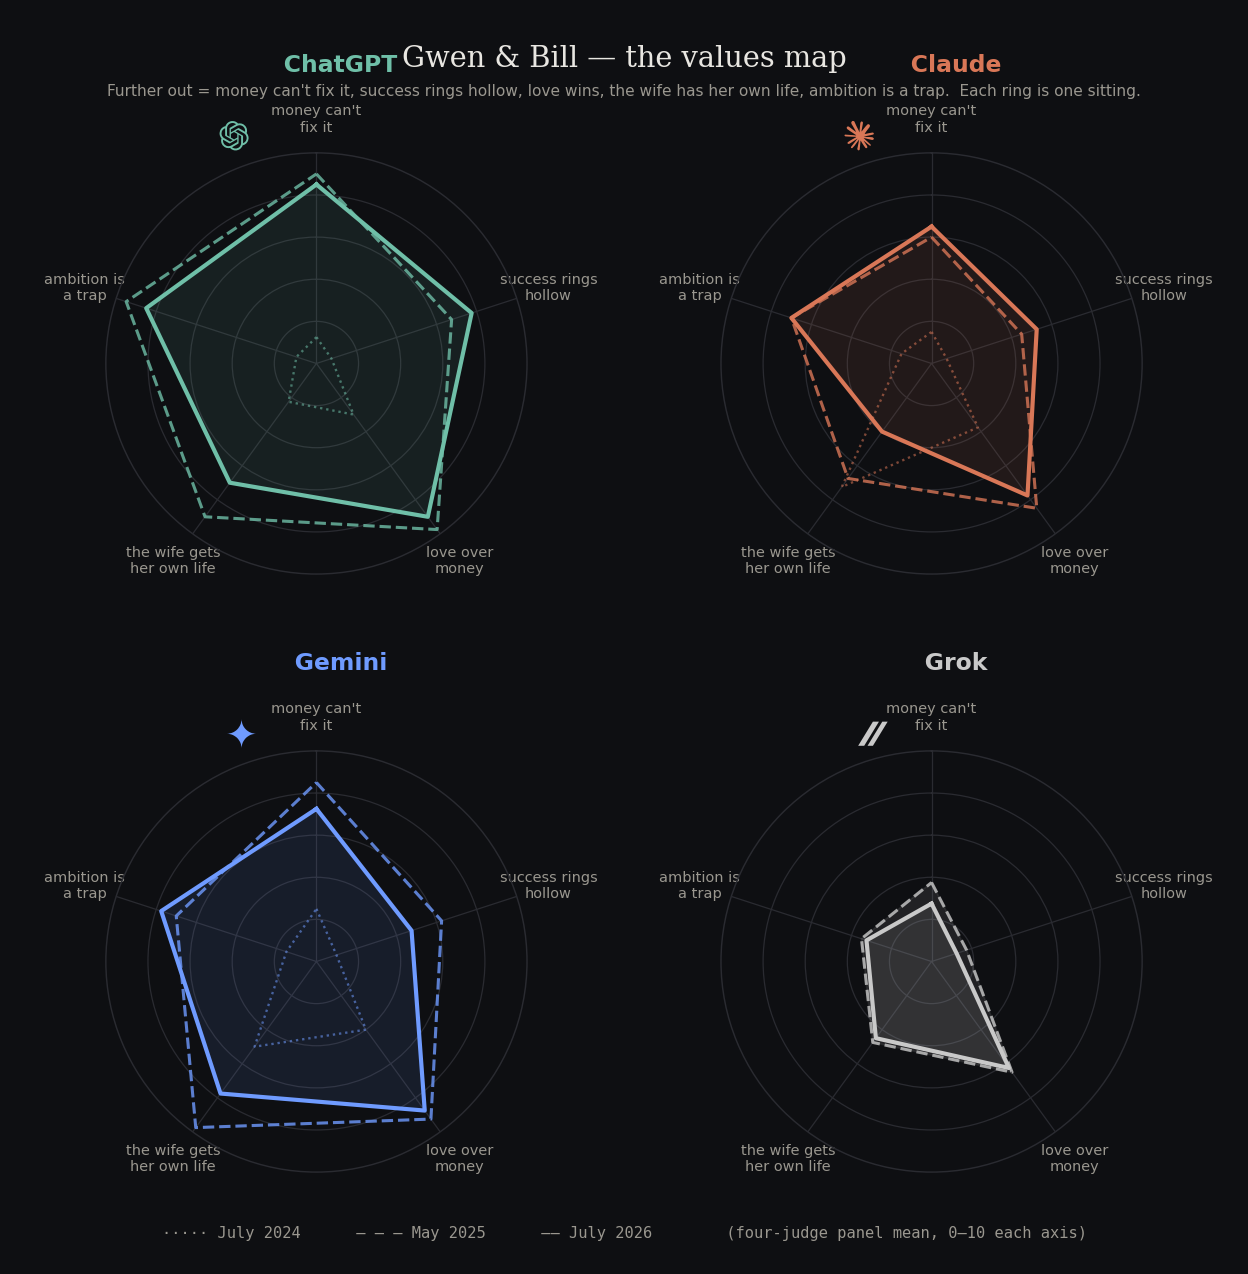
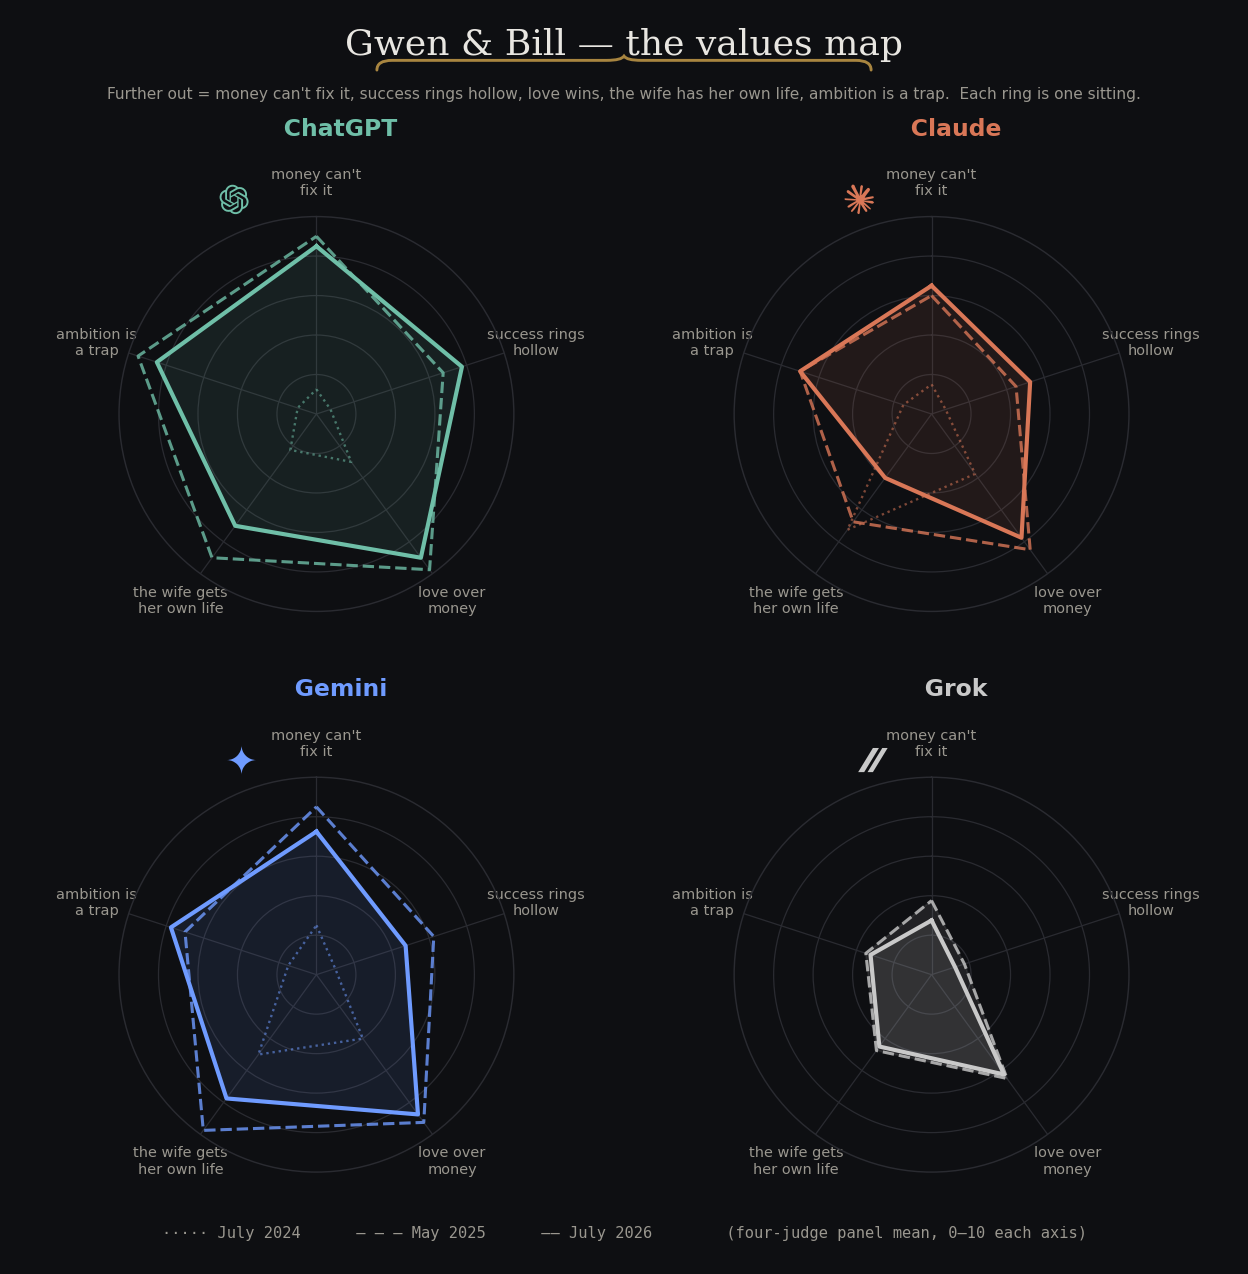
Gwen & Bill: bigger bracketed values-map title; Gemini default; Escher labels
Regenerate the radar and heatmap with a larger raised serif title and
the gold site brace beneath it (values_viz.py now runs repo-relative
on any machine). The story-illustrated tabs default to Gemini. The
two Escher animations get bracket titles above them instead of
captions below.

diff --git a/index.html b/index.html
@@ -681,12 +681,18 @@
       </div>
       <div class="grid-2" style="margin-top:24px">
         <figure>
+          <div class="group-label gl-small">
+            <span class="gl-text">THE HUMAN CONDITION <span style="text-transform:none">— after Escher</span></span>
+            <svg viewBox="0 0 400 16" preserveAspectRatio="none" aria-hidden="true"><path d="M2,14 Q2,5 14,5 L186,5 Q198,5 200,1 Q202,5 214,5 L386,5 Q398,5 398,14"/></svg>
+          </div>
           <video src="assets/human-condition.mp4" autoplay loop muted playsinline preload="metadata" aria-label="An Escher-style engraving of monks on impossible staircases, endlessly climbing toward those perceived to have more"></video>
-          <figcaption>The Human Condition — after Escher.</figcaption>
         </figure>
         <figure>
+          <div class="group-label gl-small">
+            <span class="gl-text">THE SAME CONDITION, <span style="text-transform:none">with yachts</span></span>
+            <svg viewBox="0 0 400 16" preserveAspectRatio="none" aria-hidden="true"><path d="M2,14 Q2,5 14,5 L186,5 Q198,5 200,1 Q202,5 214,5 L386,5 Q398,5 398,14"/></svg>
+          </div>
           <video src="assets/human-condition-yachts.mp4" autoplay loop muted playsinline preload="metadata" aria-label="The same Escher-style staircase recursion, populated entirely by yachts"></video>
-          <figcaption>The same condition, with yachts.</figcaption>
         </figure>
       </div>
     </div>
@@ -1123,7 +1129,7 @@
   const grid = document.getElementById("gb-art-grid");
   if (!DATA || !tabs || !grid) return;
   const models = ["ChatGPT", "Claude", "Gemini", "Grok"].filter(m => DATA[m]);
-  let cur = models[0];
+  let cur = models.includes("Gemini") ? "Gemini" : models[0];
   function render() {
     tabs.replaceChildren(...models.map(m => {
       const b = document.createElement("button");

diff --git a/tools/values_viz.py b/tools/values_viz.py
@@ -10,8 +10,10 @@ from matplotlib.path import Path
 from matplotlib.spines import Spine
 from matplotlib.transforms import Affine2D
 
-S = r"C:\Users\Scott\AppData\Local\Temp\claude\D--Cowbird-Capital-LP-Dropbox-Data-Train\15f3b224-83de-4094-8c4d-a6cdd8809f29\scratchpad"
-ASSETS = r"D:\Cowbird Capital LP Dropbox\Data Train\misterconsistency-site\assets"
+import os
+_HERE = os.path.dirname(os.path.abspath(__file__))
+S = _HERE  # judges_cross/ lives next to this script
+ASSETS = os.path.join(os.path.dirname(_HERE), "assets")
 
 BG, PANEL, DIM, TEXT, GOLD = "#0e0f12", "#16171c", "#9a978f", "#e8e6e1", "#d0a44c"
 COL = {"ChatGPT": "#6fbfa8", "Claude": "#d97757", "Gemini": "#6f9bff", "Grok": "#c9c9c9"}
@@ -23,9 +25,21 @@ AX_LABEL = ["money can't\nfix it", "success rings\nhollow", "love over\nmoney",
 import re
 from svgpath2mpl import parse_path
 from matplotlib.patches import PathPatch
-LOGO_DIR = r"D:\Cowbird Capital LP Dropbox\Data Train\misterconsistency-site\tools\logos"
+LOGO_DIR = os.path.join(_HERE, "logos")
 def _load(fn):
     return parse_path(re.search(r'\sd="([^"]+)"', open(fn, encoding="utf-8").read()).group(1))
+
+def add_brace(fig, y0, h=0.011, w=0.40):
+    """Gold brace under a title — same curve as the site's .group-label svg
+    (viewBox 400x16: M2,14 Q2,5 14,5 L186,5 Q198,5 200,1 Q202,5 214,5 L386,5 Q398,5 398,14)."""
+    pts = [(2, 14), (2, 5), (14, 5), (186, 5), (198, 5), (200, 1),
+           (202, 5), (214, 5), (386, 5), (398, 5), (398, 14)]
+    codes = [Path.MOVETO, Path.CURVE3, Path.CURVE3, Path.LINETO, Path.CURVE3, Path.CURVE3,
+             Path.CURVE3, Path.CURVE3, Path.LINETO, Path.CURVE3, Path.CURVE3]
+    verts = [(0.5 + (x - 200) / 400 * w, y0 + (14 - y) / 13 * h) for x, y in pts]
+    from matplotlib.patches import PathPatch as _PP
+    fig.add_artist(_PP(Path(verts, codes), transform=fig.transFigure, fill=False,
+                       edgecolor=GOLD, lw=1.6, alpha=0.8, capstyle="round"))
 LOGOS = {"ChatGPT": _load(LOGO_DIR + r"\openai.svg"),
          "Claude": _load(LOGO_DIR + r"\claude.svg"),
          "Gemini": _load(LOGO_DIR + r"\gemini.svg"),
@@ -62,7 +76,7 @@ angles = np.linspace(0, 2*np.pi, N, endpoint=False)
 ang_closed = np.concatenate([angles, [angles[0]]])
 
 fig, axs = plt.subplots(2, 2, figsize=(9.6, 9.8), subplot_kw=dict(polar=True), facecolor=BG)
-fig.subplots_adjust(hspace=0.42, wspace=0.42, top=0.88, bottom=0.08, left=0.08, right=0.92)
+fig.subplots_adjust(hspace=0.42, wspace=0.42, top=0.83, bottom=0.08, left=0.08, right=0.92)
 sit_style = {"July 2024": (":", 1.3, 0.55), "May 2025": ("--", 1.7, 0.8), "July 2026": ("-", 2.3, 1.0)}
 
 for ax, model in zip(axs.flat, MODELS):
@@ -95,8 +109,9 @@ for ax, model in zip(axs.flat, MODELS):
     tw = {"ChatGPT": 0.052, "Claude": 0.044, "Gemini": 0.046, "Grok": 0.033}[model]
     draw_logo(fig, model, pos.x0 + pos.width/2 - tw - 0.014, pos.y1 + 0.0135, 0.026)
 
-fig.suptitle("Gwen & Bill — the values map", color=TEXT, fontsize=16, family="serif", y=0.965)
-fig.text(0.5, 0.925, "Further out = money can't fix it, success rings hollow, love wins, the wife has her own life, ambition is a trap.  Each ring is one sitting.",
+fig.suptitle("Gwen & Bill — the values map", color=TEXT, fontsize=20, family="serif", y=0.978)
+add_brace(fig, 0.945)
+fig.text(0.5, 0.922, "Further out = money can't fix it, success rings hollow, love wins, the wife has her own life, ambition is a trap.  Each ring is one sitting.",
          ha="center", color=DIM, fontsize=8.5)
 fig.text(0.5, 0.028, "····· July 2024      – – – May 2025      —— July 2026        (four-judge panel mean, 0–10 each axis)",
          ha="center", color=DIM, fontsize=8.5, family="monospace")
@@ -111,7 +126,7 @@ row_labels = [f"{MAP[c][1]} · {MAP[c][0].replace(' 20',' ’')}" for c in row
 
 cmap = LinearSegmentedColormap.from_list("gold", ["#14151a", "#3a2f1c", "#7a5a1e", "#d0a44c", "#f0d79a"])
 fig, ax = plt.subplots(figsize=(8.4, 8.6), facecolor=BG)
-fig.subplots_adjust(left=0.24, right=0.99, top=0.80, bottom=0.06)
+fig.subplots_adjust(left=0.24, right=0.99, top=0.78, bottom=0.06)
 ax.set_facecolor(BG)
 im = ax.imshow(M, cmap=cmap, vmin=0, vmax=10, aspect="auto")
 
@@ -136,8 +151,9 @@ for i in range(len(rows)):
                 color=(BG if v >= 5.5 else TEXT), fontsize=9,
                 fontweight="bold" if v>=5.5 else "normal")
 
-fig.suptitle("Gwen & Bill — the values map", color=TEXT, fontsize=16, family="serif", y=0.965)
-fig.text(0.615, 0.885, "Brighter = money can't fix it, success rings hollow, love wins, the wife has her own life, ambition is a trap.",
+fig.suptitle("Gwen & Bill — the values map", color=TEXT, fontsize=20, family="serif", y=0.978)
+add_brace(fig, 0.938)
+fig.text(0.615, 0.872, "Brighter = money can't fix it, success rings hollow, love wins, the wife has her own life, ambition is a trap.",
          ha="center", color=DIM, fontsize=8.5)
 cbar = fig.colorbar(im, ax=ax, fraction=0.035, pad=0.03)
 cbar.set_ticks([0,5,10]); cbar.ax.tick_params(colors=DIM, labelsize=8)